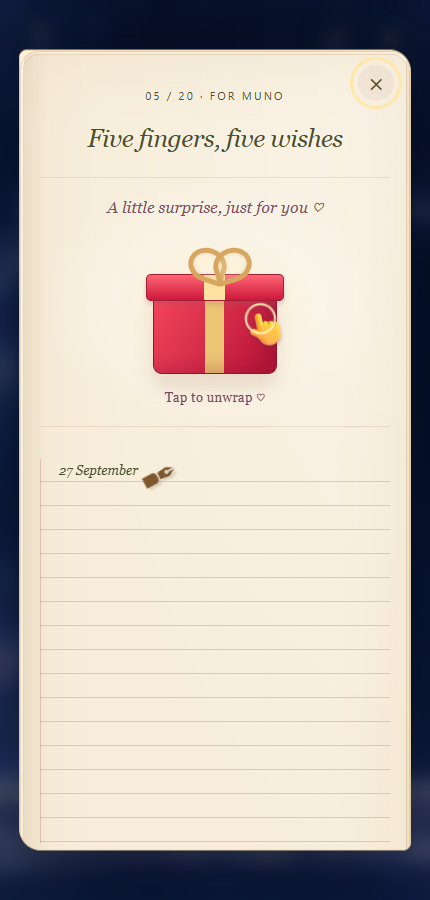
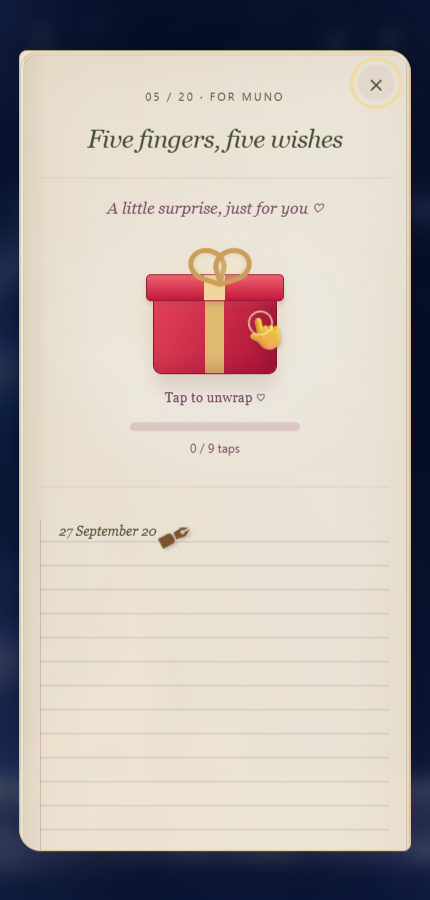
fixing letters effects

diff --git a/letter-gifts.js b/letter-gifts.js
@@ -23,16 +23,21 @@
   button.type='button';button.className='gift-box';button.setAttribute('aria-label','Open your gift');button.setAttribute('aria-expanded','false');button.setAttribute('aria-controls','gift-reveal');
   for(const part of ['gift-glow','gift-base','gift-lid','gift-bow']){const span=document.createElement('span');span.className=part;span.setAttribute('aria-hidden','true');button.append(span);}
   const label=document.createElement('span');label.className='gift-tap';label.textContent='Tap to unwrap ♡';button.append(label);
+  const tapsNeeded=2+Math.floor(Math.random()*9);let taps=0;
+  const progress=document.createElement('progress');progress.className='gift-progress';progress.max=tapsNeeded;progress.value=0;progress.setAttribute('aria-label','Gift unwrapping progress');
+  const status=document.createElement('p');status.className='gift-progress-label';status.setAttribute('role','status');status.textContent=`0 / ${tapsNeeded} taps`;
   const tap=document.createElement('span');tap.className='gift-tap-pointer';tap.textContent='👆';tap.setAttribute('aria-hidden','true');button.append(tap);
   const sparkles=document.createElement('span');sparkles.className='gift-sparkles';sparkles.setAttribute('aria-hidden','true');
   for(let i=0;i<18;i++){const star=document.createElement('i'),angle=i*Math.PI*2/18,radius=48+(i%3)*22;star.textContent=i%3?'✦':'✧';star.style.setProperty('--spark-x',`${Math.cos(angle)*radius}px`);star.style.setProperty('--spark-y',`${Math.sin(angle)*radius-28}px`);star.style.setProperty('--spark-delay',`${i%4*.035}s`);sparkles.append(star);}button.append(sparkles);
   art.id='gift-reveal';art.hidden=true;tray.className='gift-stickers';tray.dataset.count=stickerNames[number].length;tray.setAttribute('role','group');tray.setAttribute('aria-label','Your gift stickers');
   stickerNames[number].forEach((name,index)=>{const img=document.createElement('img');img.className='gift-sticker';img.src=`assets/gifts/stickers/gift-${String(number).padStart(2,'0')}-${index+1}.webp`;img.alt=name;img.width=600;img.height=600;img.decoding='async';img.style.setProperty('--sticker-delay',`${index*.18}s`);tray.append(img);});
   const heading=document.createElement('strong');heading.textContent=title;const text=document.createElement('p');text.textContent=note;caption.append(heading,text);art.append(tray,caption);
-  button.addEventListener('click',()=>{if(section.classList.contains('unwrapped'))return;section.classList.add('unwrapped');button.setAttribute('aria-expanded','true');art.hidden=false;label.textContent='Yours, with love ♡';
+  button.addEventListener('click',()=>{if(section.classList.contains('unwrapped'))return;
+   taps++;progress.value=taps;status.textContent=`${taps} / ${tapsNeeded} taps`;if(taps<tapsNeeded){label.textContent='Keep tapping, my love ♡';return;}
+   status.textContent='Your gift is open ♡';section.classList.add('unwrapped');button.setAttribute('aria-expanded','true');art.hidden=false;label.textContent='Yours, with love ♡';
    // Measure each landing position so every sticker starts inside the actual box.
    const box=button.getBoundingClientRect();for(const img of tray.children){const target=img.getBoundingClientRect();img.style.setProperty('--launch-x',`${box.left+box.width/2-target.left-target.width/2}px`);img.style.setProperty('--launch-y',`${box.top+70-target.top-target.height/2}px`);}section.classList.add('gift-launched');
   });
-  section.append(hint,button,art);
+  section.append(hint,button,progress,status,art);
  };
 })();

diff --git a/index.html b/index.html
@@ -1,4 +1,4 @@
-<!doctype html><html lang="en"><head><meta charset="utf-8"><meta name="viewport" content="width=device-width,initial-scale=1,viewport-fit=cover"><meta name="theme-color" content="#080e23"><meta name="description" content="Twenty birthday wishes on a fairy-tale journey from Earth to the Moon."><title>For Muno · A Night to Remember</title><link rel="icon" href="assets/favicon.svg"><link rel="stylesheet" href="style.css?v=22"><script defer src="config.js?v=11"></script><script defer src="letter-gifts.js?v=4"></script><script defer src="letter-writing.js?v=4"></script><script defer src="game.js?v=27"></script></head><body>
+<!doctype html><html lang="en"><head><meta charset="utf-8"><meta name="viewport" content="width=device-width,initial-scale=1,viewport-fit=cover"><meta name="theme-color" content="#080e23"><meta name="description" content="Twenty birthday wishes on a fairy-tale journey from Earth to the Moon."><title>For Muno · A Night to Remember</title><link rel="icon" href="assets/favicon.svg"><link rel="stylesheet" href="style.css?v=23"><script defer src="config.js?v=11"></script><script defer src="letter-gifts.js?v=5"></script><script defer src="letter-writing.js?v=4"></script><script defer src="game.js?v=28"></script></head><body>
 <main id="app"><canvas id="scene" aria-label="Earth-to-Moon birthday adventure"></canvas>
 <section id="entrance"><div id="greeting" class="gate"><span class="flower">✿</span><h1>Hi Dear.</h1><p>Are you <span id="recipient"></span>?</p><div class="choices"><button id="yes" class="primary">Yes ♡</button><button id="no" class="glass">No</button></div><p id="no-message" class="feedback" aria-live="polite"></p></div>
 <form id="secret" class="gate" hidden><span class="flower">♡</span><h1>Our little secret.</h1><label for="answer">What does he call you?</label><input id="answer" placeholder="Your special nickname" autocomplete="off" autocapitalize="off" spellcheck="false" maxlength="80" required aria-describedby="answer-message"><button id="enter" class="primary" type="submit">Enter our world ✧</button><p id="answer-message" class="feedback" aria-live="polite"></p><button id="back" class="text-button" type="button">Back</button></form></section>
@@ -16,6 +16,7 @@
 <dialog id="journal" aria-labelledby="journal-title"><article class="paper"><button id="close-journal" class="close" aria-label="Close memories">×</button><span class="eyebrow">YOURS, ALWAYS</span><h2 id="journal-title">Seven little letters</h2><div id="journal-list"></div><button id="restart" class="text-button">Begin the whole journey again</button><div id="reset-confirm" hidden><p>Start again and clear your collected letters?</p><button id="reset-yes" class="glass">Start again</button><button id="reset-no" class="text-button">Keep my memories</button></div></article></dialog>
 <div id="end-reminder" hidden role="alert">You left your letter behind, my precious girl. Collect it first. ♡</div><div id="toast" role="status" aria-live="polite"></div><span id="live" class="sr-only" aria-live="polite"></span>
 </main></body></html>
+
 
 
 

diff --git a/game.js b/game.js
@@ -15,9 +15,10 @@ let flowerIntro={state:'idle',boy:0,start:0,from:START};
 let pointer=null,keys=new Set(),modalLetter=null,toastTimer,pickup=null;
 let cinematic={girl:0,boy:0,startGirl:0,boyStart:0},petals=[],stars=[],sparks=[],rockets=[],fireworkTimer=0,wind=0,mini=null,fireworkBeat=0,blooms=[],petalBursts=[],lastEffectCamera=0;
 const finaleVideo=$('finale-video');
-const bg=new Audio(C.backgroundMusic),song=new Audio(),audioFiles=[bg,song];bg.loop=song.loop=true;bg.volume=C.musicVolume??.22;song.volume=.25;let ac;
+const bg=new Audio(C.backgroundMusic),song=new Audio(),audioFiles=[bg,song];bg.loop=true;song.loop=false;bg.volume=C.musicVolume??.22;song.volume=.25;let ac;
+song.addEventListener('ended',()=>{if(modalLetter)modalLetter.audioFinished=true;});
 function play(a){const p=a.play();if(p)p.catch(()=>{});}
-function soundSync(){if(phase==='video'){audioFiles.forEach(a=>a.pause());if(document.hidden||manualPause)finaleVideo.pause();return;}audioFiles.forEach(a=>{a.muted=muted;});if(!active||document.hidden||manualPause||muted){audioFiles.forEach(a=>a.pause());return;}if(modalLetter?.music){bg.pause();play(song);}else{song.pause();play(bg);}}
+function soundSync(){if(phase==='video'){audioFiles.forEach(a=>a.pause());if(document.hidden||manualPause)finaleVideo.pause();return;}audioFiles.forEach(a=>{a.muted=muted;});if(!active||document.hidden||manualPause||muted){audioFiles.forEach(a=>a.pause());return;}if(modalLetter?.music){bg.pause();if(!modalLetter.audioFinished&&!song.ended)play(song);}else{song.pause();play(bg);}}
 function chime(kind='heart'){
  if(muted||reduce)return;
  try{ac??=new (window.AudioContext||window.webkitAudioContext)();if(ac.state==='suspended')ac.resume();const t=ac.currentTime;
@@ -469,5 +470,6 @@ function frame(ms){
 requestAnimationFrame(frame);
 if(document.modelContext?.registerTool){const lifecycle=new AbortController();try{Promise.resolve(document.modelContext.registerTool({name:'read_birthday_adventure',title:'Read adventure progress',description:'Read the current birthday adventure stage and completed letter challenges.',inputSchema:{type:'object',properties:{},additionalProperties:false},annotations:{readOnlyHint:true},execute(input){if(!input||typeof input!=='object'||Array.isArray(input)||Object.keys(input).length)throw new Error('Expected an empty object.');return {started:active,stage:phase,collected:collected.size,letters:letters.length,bouquet:carrying,completed};}},{signal:lifecycle.signal})).catch(()=>{});}catch{}window.addEventListener('pagehide',()=>lifecycle.abort(),{once:true});}
 })();
+
 
 

diff --git a/style.css b/style.css
@@ -81,3 +81,8 @@ dialog{position:fixed;left:0;right:0;top:var(--dialog-top,50%);bottom:auto;margi
 @keyframes gift-sparkle{0%{opacity:0;transform:scale(.1)}18%{opacity:1}100%{opacity:0;transform:translate(var(--spark-x),var(--spark-y)) scale(.2) rotate(90deg)}}
 @keyframes gift-launch{0%{opacity:0;transform:translate(var(--launch-x),var(--launch-y)) scale(.06) rotate(-12deg)}15%{opacity:1}68%{opacity:1;transform:translate(0,-24px) scale(1.08) rotate(var(--sticker-turn))}100%{opacity:1;transform:translate(0,0) scale(1) rotate(var(--sticker-turn))}}
 @media(prefers-reduced-motion:reduce){#letter-gift.gift-launched .gift-sticker{opacity:1}.gift-sparkles{display:none}}
+.gift-progress{display:block;width:170px;height:9px;margin:14px auto 0;appearance:none;border:0;border-radius:20px;overflow:hidden;background:#c98e9e30;accent-color:#d51e44}
+.gift-progress::-webkit-progress-bar{background:#c98e9e30;border-radius:20px}
+.gift-progress::-webkit-progress-value{background:linear-gradient(90deg,#e95168,#be1239);border-radius:20px;transition:width .15s}
+.gift-progress::-moz-progress-bar{background:linear-gradient(90deg,#e95168,#be1239);border-radius:20px}
+.gift-progress-label{font:12px/1.5 system-ui;color:#8b4960;margin:7px 0 12px}

diff --git a/assets/gifts/README.md b/assets/gifts/README.md
@@ -12,3 +12,4 @@ Validated with `node tests/verify-gift-stickers.cjs` (22 separate alpha WebPs, w
 
 Reading/unwrapping update: the message uses its full natural height with horizontal scrolling, and the diary dialog owns vertical scrolling. Gifts follow the signature so unopened boxes never gate reading. Red/gold boxes have an animated tapping hand. Clicking triggers a sparkle burst, then individually staggered stickers scale from 6% at measured box coordinates to full size. Reduced motion reveals immediately. tests/verify-gift-scroll.cjs verifies a 50-line diary can reach its final line with a closed gift, plus the red box, hint and launch effects.
 Gift placement restored above the message. The full-height message/outer-dialog scroll remains, so all lines are reachable before unwrapping. The letter-writing skip button was removed; the pen reveal completes automatically.
+Each box now chooses 2–10 taps per opening. A native progress bar and live tap count sit underneath. Only the final tap runs the sparkle/sticker reveal; extra taps do nothing. Letter WAV playback has looping disabled and remembers completion for that opening, so pause/mute/visibility synchronization cannot restart it. Reopening a letter permits one new play. Verified with tests/verify-audio-gift-taps.cjs.
